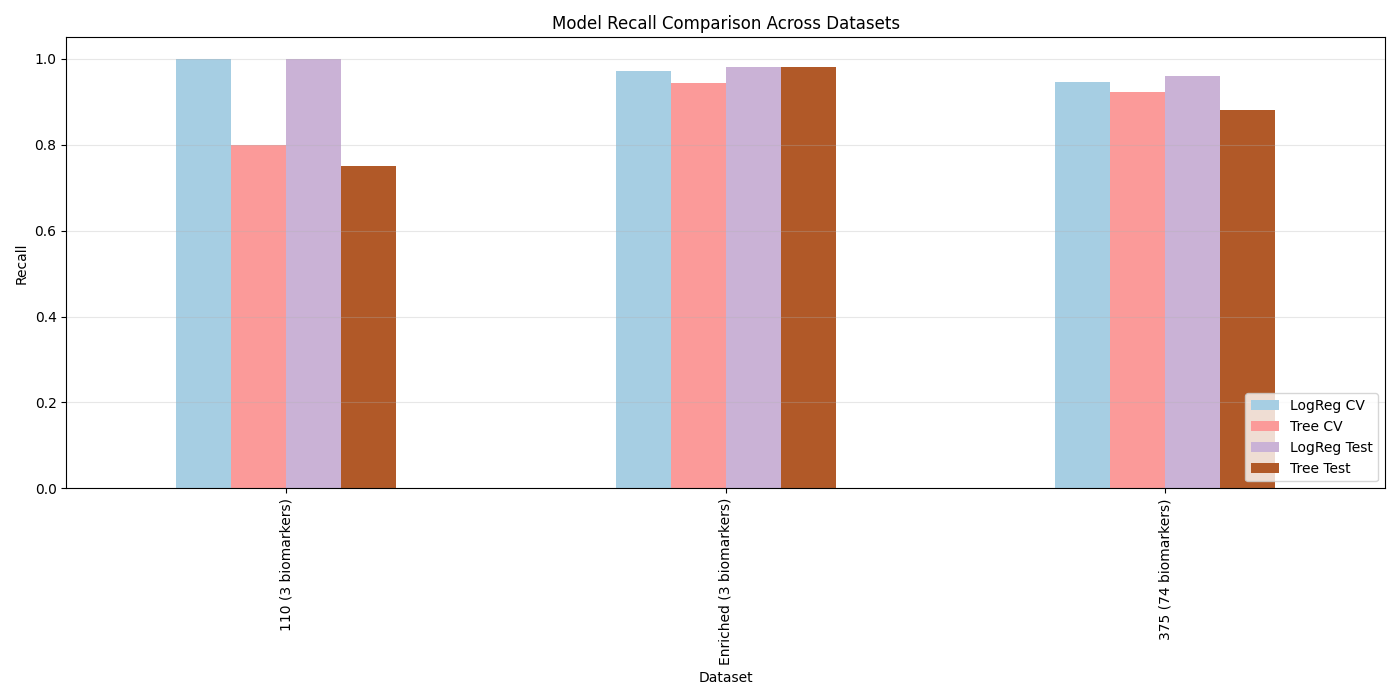
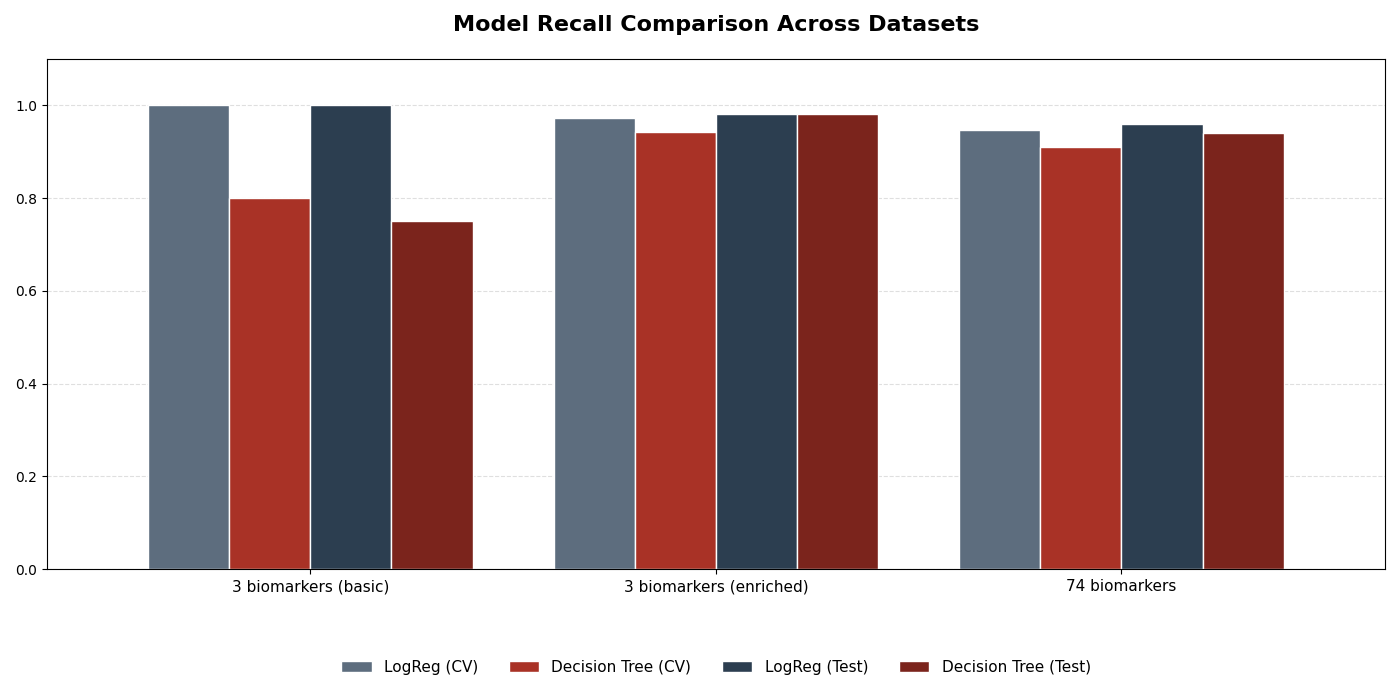
final

diff --git a/data_mining.py b/data_mining.py
@@ -8,6 +8,7 @@ from sklearn.metrics import confusion_matrix, accuracy_score, recall_score
 from sklearn.tree import DecisionTreeClassifier, plot_tree
 import matplotlib.pyplot as plt
 from sklearn.metrics import ConfusionMatrixDisplay
+import seaborn as sns
 
 def perform_cross_validation(X, y, model):
     pipe = Pipeline([
@@ -29,7 +30,7 @@ def get_model_results(X, y, model_type='logreg'):
         model = LogisticRegression(max_iter=1000, random_state=42, class_weight='balanced')
     else: 
         X_train_final, X_test_final = X_train, X_test
-        model = DecisionTreeClassifier(max_depth=4, random_state=42, class_weight='balanced')
+        model = DecisionTreeClassifier(max_depth=6, random_state=42, class_weight='balanced')
 
     model.fit(X_train_final, y_train)
     y_pred = model.predict(X_test_final)
@@ -48,80 +49,128 @@ def get_model_results(X, y, model_type='logreg'):
         "Importance": importance
     }
 
-datasets = {
-    "110 (3 biomarkers)": "./final_data/110_cleaned.csv",
-    "Enriched (3 biomarkers)": "./final_data/enriched_data_cleaned.csv",
-    "375 (74 biomarkers)": "./final_data/375_cleaned.csv"
-}
+if __name__ == "__main__":
 
-results_list = []
+    datasets = {
+        "3 biomarkers (basic)": "./final_data/110_cleaned.csv",
+        "3 biomarkers (enriched)": "./final_data/enriched_data_cleaned.csv",
+        "74 biomarkers": "./final_data/375_cleaned.csv"
+    }
 
-for name, path in datasets.items():
-    df = pd.read_csv(path)
-    X = df.drop(columns=["outcome"])
-    y = df["outcome"]
+    results_list = []
 
-    lr_model = LogisticRegression(max_iter=1000, random_state=42, class_weight='balanced')
-    lr_cv_acc, lr_cv_rec = perform_cross_validation(X, y, lr_model)
-    lr_res = get_model_results(X, y, "logreg")
+    for name, path in datasets.items():
+        df = pd.read_csv(path)
+        X = df.drop(columns=["outcome"])
+        y = df["outcome"]
 
-    dt_model = DecisionTreeClassifier(max_depth=4, random_state=42, class_weight='balanced')
-    dt_cv_acc, dt_cv_rec = perform_cross_validation(X, y, dt_model)
-    dt_res = get_model_results(X, y, "tree")
-    
-    results_list.append({
-        "Dataset": name,
-        "LR_CV_Recall": lr_cv_rec,
-        "DT_CV_Recall": dt_cv_rec,
-        "LR_Test_Recall": lr_res["Recall"],
-        "DT_Test_Recall": dt_res["Recall"],
-        "LR_Matrix": lr_res["Matrix"],
-        "DT_Matrix": dt_res["Matrix"],
-        "375_Tree_Model": dt_res["Model_Obj"] if "375" in name else None,
-        "Features": X.columns.tolist(),
-        "Importance": lr_res["Importance"] if "375" in name else None
-    })
+        lr_model = LogisticRegression(max_iter=1000, random_state=42, class_weight='balanced')
+        lr_cv_acc, lr_cv_rec = perform_cross_validation(X, y, lr_model)
+        lr_res = get_model_results(X, y, "logreg")
 
-res_df = pd.DataFrame(results_list)
-ax = res_df.set_index('Dataset')[['LR_CV_Recall', 'DT_CV_Recall', 'LR_Test_Recall', 'DT_Test_Recall']].plot(
-    kind='bar', figsize=(14, 7), colormap='Paired'
-)
-plt.title("Model Recall Comparison Across Datasets")
-plt.ylabel("Recall")
-plt.legend(["LogReg CV", "Tree CV", "LogReg Test", "Tree Test"], loc='lower right')
-plt.grid(axis='y', alpha=0.3)
-plt.tight_layout()
-plt.show()
+        dt_model = DecisionTreeClassifier(max_depth=6, random_state=42, class_weight='balanced')
+        dt_cv_acc, dt_cv_rec = perform_cross_validation(X, y, dt_model)
+        dt_res = get_model_results(X, y, "tree")
+        
+        results_list.append({
+            "Dataset": name,
+            "LR_CV_Recall": lr_cv_rec,
+            "DT_CV_Recall": dt_cv_rec,
+            "LR_Test_Recall": lr_res["Recall"],
+            "DT_Test_Recall": dt_res["Recall"],
+            "LR_Matrix": lr_res["Matrix"],
+            "DT_Matrix": dt_res["Matrix"],
+            "74_Tree_Model": dt_res["Model_Obj"] if "74" in name else None,
+            "Features": X.columns.tolist(),
+            "Importance": lr_res["Importance"] if "74" in name else None
+        })
 
-fig, axes = plt.subplots(1, 3, figsize=(18, 5))
-for i, res in enumerate(results_list):
-    disp = ConfusionMatrixDisplay(confusion_matrix=res["LR_Matrix"], 
-                                  display_labels=['Discharged', 'Deceased'])
-    disp.plot(ax=axes[i], cmap='Blues', colorbar=False)
-    axes[i].set_title(f"LogReg: {res['Dataset']}\n(Recall: {res['LR_Test_Recall']:.2%})")
-plt.tight_layout()
-plt.show()
+    custom_colors = ['#5D6D7E', '#A93226', '#2C3E50', '#7B241C']
+    res_df = pd.DataFrame(results_list)
+    plot_df = res_df.set_index('Dataset')[['LR_CV_Recall', 'DT_CV_Recall', 'LR_Test_Recall', 'DT_Test_Recall']]
+    ax = plot_df.plot(
+        kind='bar', 
+        figsize=(14, 7), 
+        color=custom_colors,
+        width=0.8, 
+        edgecolor='white',
+        linewidth=1
+    )
+    plt.title("Model Recall Comparison Across Datasets", fontsize=16, pad=20, fontweight='bold')
+    plt.xlabel("")
+    plt.grid(axis='y', linestyle='--', alpha=0.4, zorder=0)
+    ax.set_axisbelow(True)
+    plt.xticks(rotation=0, fontsize=11)
+    plt.legend(
+        ["LogReg (CV)", "Decision Tree (CV)", "LogReg (Test)", "Decision Tree (Test)"], 
+        loc='upper center', 
+        bbox_to_anchor=(0.5, -0.15),
+        ncol=4,
+        frameon=False,
+        fontsize=11
+    )
+    plt.ylim(0, 1.1)
+    plt.tight_layout()
+    plt.show()
 
-tree_item = next(item for item in results_list if "375" in item["Dataset"])
-plt.figure(figsize=(25, 12))
-plot_tree(tree_item["375_Tree_Model"], 
-          feature_names=tree_item["Features"], 
+    fig, axes = plt.subplots(1, 3, figsize=(18, 6))
+
+    for i, res in enumerate(results_list):
+        disp = ConfusionMatrixDisplay(
+            confusion_matrix=res["LR_Matrix"], 
+            display_labels=['Discharged', 'Deceased']
+        )
+        disp.plot(ax=axes[i], cmap='Blues', colorbar=False)
+        axes[i].set_title(f"LogReg: {res['Dataset']}\n(Recall: {res['LR_Test_Recall']:.2%})", 
+                      fontsize=11, fontweight='bold', pad=15)
+        if i > 0:
+            axes[i].set_ylabel('')
+            axes[i].set_xlabel('')
+            axes[i].set_yticklabels([])
+        else:
+            axes[i].set_ylabel('True Label', fontsize=12, fontweight='600')
+            axes[i].set_xlabel('Predicted Label', fontsize=12, fontweight='600')
+    plt.subplots_adjust(wspace=0.1, top=0.85)
+    plt.show()
+
+    tree_item = next(item for item in results_list if "74" in item["Dataset"])
+    clean_features = [f.replace('Lactate dehydrogenase', 'LDH')
+                   .replace('Hypersensitive c-reactive protein', 'CRP')
+                   .replace('Quantification of Treponema pallidum antibodies', 'T. Pallidum Ab')
+                   .replace('Interleukin 2 receptor', 'IL-2R') 
+                  for f in tree_item["Features"]]
+    plt.figure(figsize=(24, 10), dpi=100)
+    plot_tree(tree_item["74_Tree_Model"], 
+          feature_names=clean_features, 
           class_names=['Discharged', 'Deceased'], 
-          filled=True, rounded=True, fontsize=10)
-plt.title("375 Biomarkers - Decision Tree Visualization")
-plt.show()
+          filled=True, 
+          rounded=True, 
+          fontsize=9,
+          precision=2,
+          impurity=False,
+          proportion=False,
+          node_ids=False, 
+          label='none')
+    plt.tight_layout()
+    plt.show()
 
-for res in results_list:
-    if "375" in res["Dataset"]:
-        importance_series = res["Importance"].abs().sort_values(ascending=False).head(10)
+    res_74 = next((item for item in results_list if "74" in item["Dataset"]), None)
+    if res_74 is not None and res_74["Importance"] is not None:
+        importance_series = res_74["Importance"].sort_values(ascending=False).head(10)
         
-        plt.figure(figsize=(12, 6))
-        importance_series.plot(kind='barh', color='teal')
-        
-        plt.title(f"Top 10 Predictors - {res['Dataset']}")
-        plt.xlabel("Absolute Coefficient Value (Importance)")
-        plt.ylabel("Biomarker Name")
+        plt.figure(figsize=(12, 8))
+        sns.set_style("white")
+        navy_blue = '#003366'
+        ax = importance_series.plot(kind='barh', color=navy_blue, width=0.75)
+        plt.title(f"Most Important Biomarkers", fontsize=16, fontweight='bold', pad=20)
+        plt.xlabel("Impact on Mortality Prediction", fontsize=12, labelpad=10)
+        plt.ylabel("")
+        ax.spines['top'].set_visible(False)
+        ax.spines['right'].set_visible(False)
+        ax.spines['left'].set_linewidth(1.2)
+        ax.spines['bottom'].set_linewidth(1.2)
+
         plt.gca().invert_yaxis()
-        plt.grid(axis='x', linestyle='--', alpha=0.7)
+        plt.grid(axis='x', linestyle='--', alpha=0.3)
         plt.tight_layout()
         plt.show()

diff --git a/new.py b/new.py
@@ -1,0 +1,53 @@
+
+
+from matplotlib import pyplot as plt
+import pandas as pd
+from sklearn.linear_model import LogisticRegression
+from sklearn.metrics import ConfusionMatrixDisplay
+
+from data_mining import get_model_results, perform_cross_validation
+
+
+df_375 = pd.read_csv("./final_data/375_cleaned.csv")
+
+top_3_features = ["PH value", "glucose", "Lactate dehydrogenase"]
+X_top3 = df_375[top_3_features]
+y_top3 = df_375["outcome"]
+
+model_top3 = LogisticRegression(max_iter=1000, random_state=42, class_weight='balanced')
+cv_acc_top3, cv_rec_top3 = perform_cross_validation(X_top3, y_top3, model_top3)
+
+res_top3 = get_model_results(X_top3, y_top3, "logreg")
+
+fig, ax = plt.subplots(figsize=(10, 6))
+disp = ConfusionMatrixDisplay(confusion_matrix=res_top3["Matrix"], 
+                              display_labels=['Discharged', 'Deceased'])
+disp.plot(cmap='Blues', ax=ax, colorbar=False)
+stats_text = (
+    f"  Cross-Validation  \n"
+    f"────────────────────\n"
+    f"Accuracy: {cv_acc_top3:>8.2%}\n"
+    f"Recall:   {cv_rec_top3:>8.2%}\n"
+    f"\n"
+    f"      Test Set      \n"
+    f"────────────────────\n"
+    f"Recall:   {res_top3['Recall']:>8.2%}"
+)
+
+plt.text(1.3, 0.5, stats_text, 
+         transform=ax.transAxes,
+         fontsize=11, 
+         family='monospace',
+         verticalalignment='center', 
+         bbox=dict(boxstyle='round,pad=1', 
+                   facecolor='#f9f9f9', 
+                   edgecolor='#cccccc', 
+                   alpha=1))
+plt.title("Statistical Top 3 Predictors (PH, Glucose, LDH)\nPerformance Summary", 
+          fontsize=14, fontweight='bold', pad=20)
+
+plt.ylabel('True Label', fontsize=12, fontweight='600')
+plt.xlabel('Predicted Label', fontsize=12, fontweight='600')
+plt.subplots_adjust(right=0.7) 
+
+plt.show()
